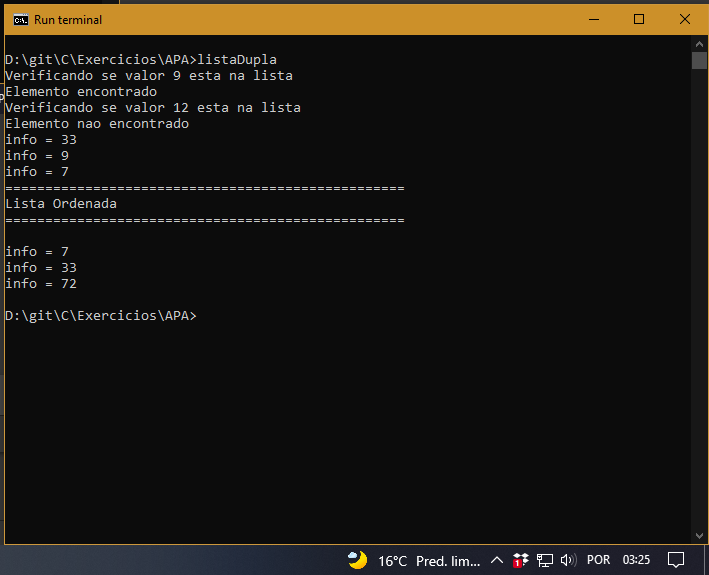
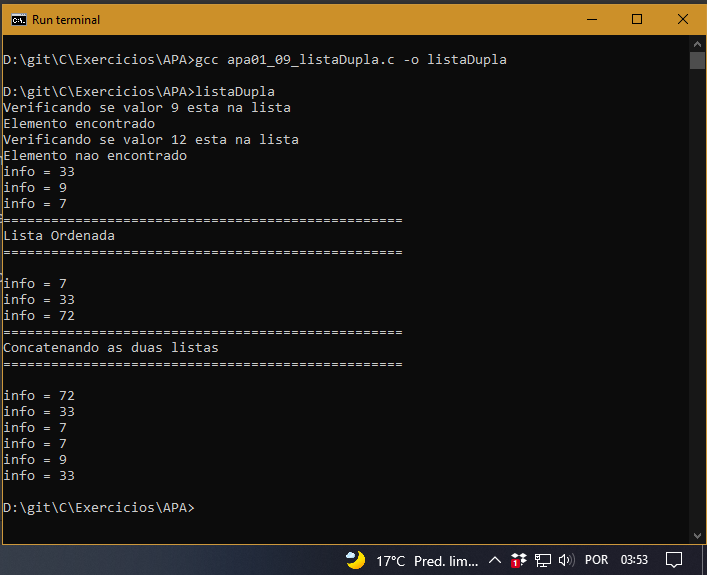
Update files

diff --git a/Exercicios/APA/apa01_09_listaDupla.c b/Exercicios/APA/apa01_09_listaDupla.c
@@ -92,6 +92,21 @@ void listaDE_imprime(ListaDE* lst)
     for (p = lst; p != NULL; p = p->prox)
         printf("info = %d\n", p->info);
 }
+/*==================================================*/
+/*Função de impressão: imprime valores dos elementos*/
+/*==================================================*/
+ListaDE* concatena(ListaDE* lst1, ListaDE* lst2){
+    ListaDE* ct = (ListaDE*)malloc(sizeof(ListaDE));
+    ct = listaDE_cria();
+    ListaDE* p; /*Ponteiro para percorrer elementos da lista*/
+    for (p = lst1; p != NULL; p = p->prox){
+        ct = listaDE_insere(ct, p->info);
+    }
+    for (p = lst2; p != NULL; p = p->prox){
+        ct = listaDE_insere(ct, p->info);
+    }
+    return ct;
+}
 /*==================*/
 /*Programa Principal*/
 /*==================*/
@@ -124,5 +139,14 @@ int main(){
     listaOrd = lst_insere_ordenado(listaOrd, 33);
     /*Visualizando a lista completa*/
     listaDE_imprime(listaOrd);
+    /*Concatenção de listas*/
+    puts("==================================================");
+    puts("Concatenando as duas listas");
+    puts("==================================================\n");
+    ListaDE* listaCT;
+    listaCT = listaDE_cria();
+    listaCT = concatena(lista, listaOrd);
+    /*Visualizando a lista completa*/
+    listaDE_imprime(listaCT);
     return 0;
 }
